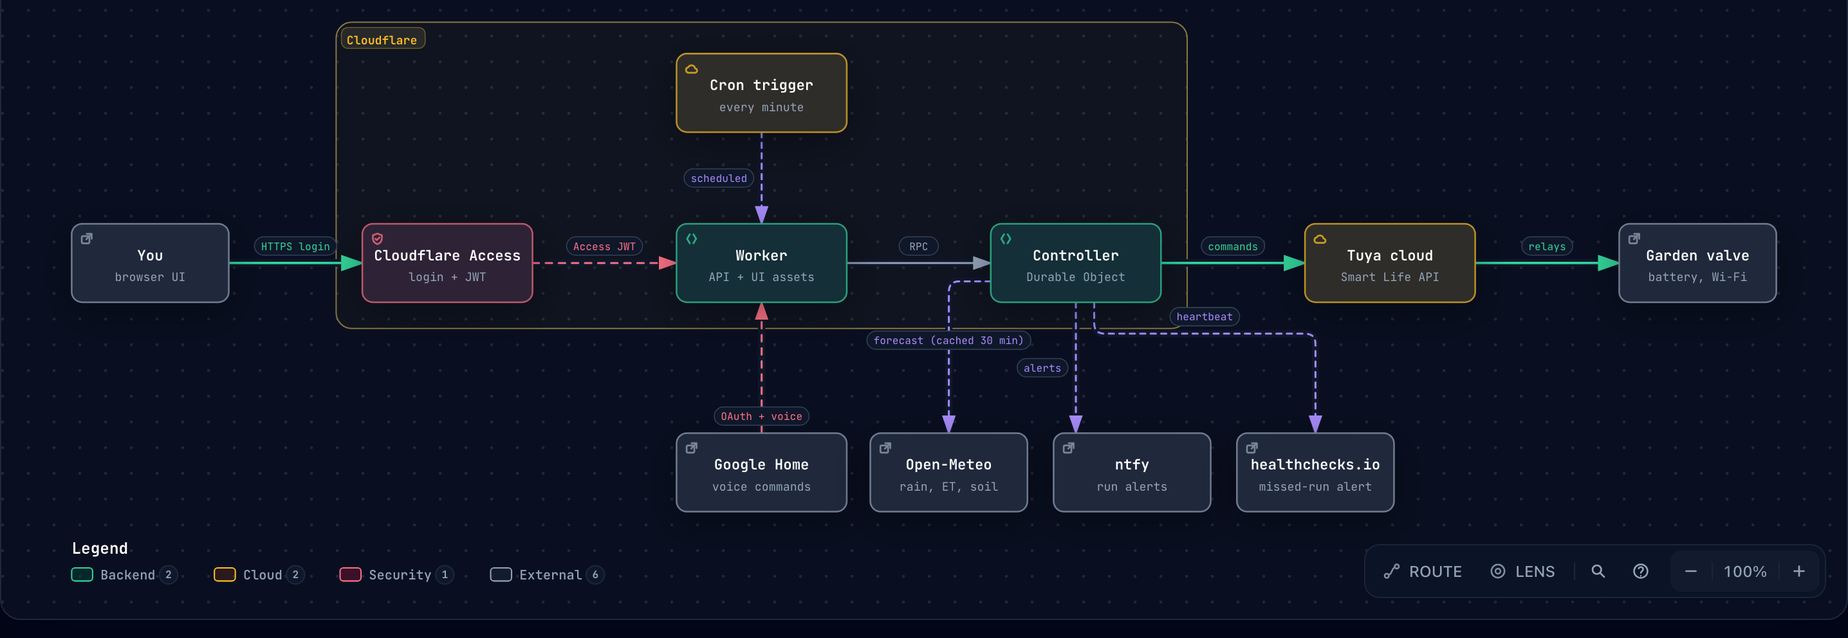
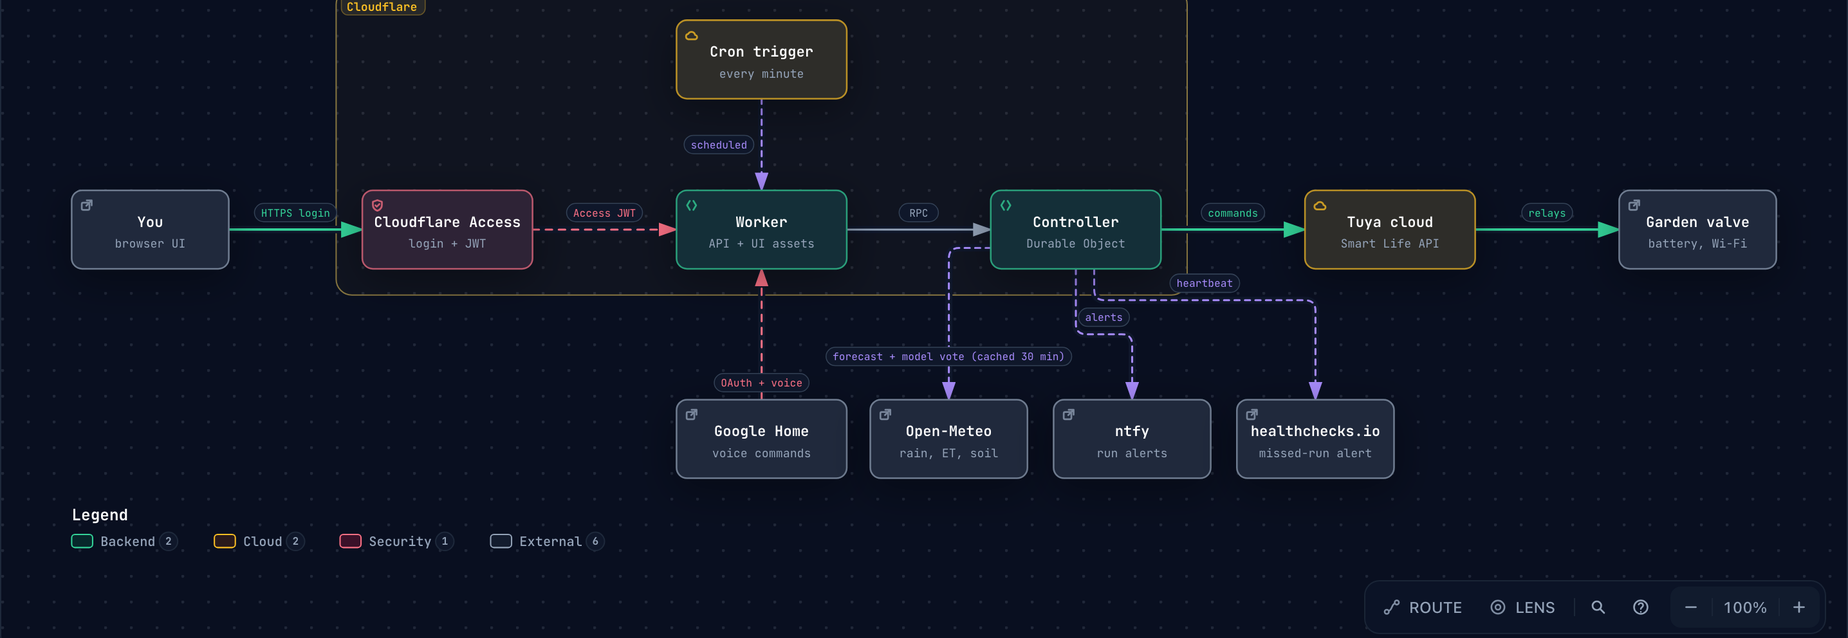
docs(arch): 📝 weather vote, rain catch-up
Add the catch-up and the model vote to the diagram, with a card on weather
and rain skips.

diff --git a/docs/architecture/architecture.html b/docs/architecture/architecture.html
@@ -5197,7 +5197,7 @@ OTHER DEALINGS IN THE FONT SOFTWARE.
       </div>
     </div>
 
-    <script id="archify-source-evidence-data" type="application/json">{"schemaVersion":1,"verified":true,"repository":{"url":"https://github.com/srizzling/valve-controller","revision":"7c382e5fe64b183cac99c9dbc0300820313c4a3b","shortRevision":"7c382e5","label":"srizzling/valve-controller","href":"https://github.com/srizzling/valve-controller/tree/7c382e5fe64b183cac99c9dbc0300820313c4a3b"},"referenceCount":21,"nodes":{"you":[{"path":"worker/public/app.js","line":437,"endLine":447,"label":"UI calls /api","href":"https://github.com/srizzling/valve-controller/blob/7c382e5fe64b183cac99c9dbc0300820313c4a3b/worker/public/app.js#L437-L447"}],"access":[{"path":"worker/src/access.ts","line":48,"endLine":59,"label":"checkAccess","href":"https://github.com/srizzling/valve-controller/blob/7c382e5fe64b183cac99c9dbc0300820313c4a3b/worker/src/access.ts#L48-L59"}],"worker":[{"path":"worker/src/index.ts","line":22,"endLine":30,"label":"CSRF check, Access gate, routes","href":"https://github.com/srizzling/valve-controller/blob/7c382e5fe64b183cac99c9dbc0300820313c4a3b/worker/src/index.ts#L22-L30"},{"path":"worker/src/index.ts","line":106,"endLine":108,"label":"Security headers, Google routes","href":"https://github.com/srizzling/valve-controller/blob/7c382e5fe64b183cac99c9dbc0300820313c4a3b/worker/src/index.ts#L106-L108"},{"path":"worker/src/security.ts","line":13,"endLine":23,"label":"securityHeaders","href":"https://github.com/srizzling/valve-controller/blob/7c382e5fe64b183cac99c9dbc0300820313c4a3b/worker/src/security.ts#L13-L23"}],"controller":[{"path":"worker/src/controller.ts","line":159,"endLine":204,"label":"alarm: cycle/soak","href":"https://github.com/srizzling/valve-controller/blob/7c382e5fe64b183cac99c9dbc0300820313c4a3b/worker/src/controller.ts#L159-L204"},{"path":"worker/src/controller.ts","line":286,"endLine":332,"label":"supervise: one-hour limits","href":"https://github.com/srizzling/valve-controller/blob/7c382e5fe64b183cac99c9dbc0300820313c4a3b/worker/src/controller.ts#L286-L332"},{"path":"worker/src/smart.ts","line":52,"endLine":52,"label":"scale cycles by weather","href":"https://github.com/srizzling/valve-controller/blob/7c382e5fe64b183cac99c9dbc0300820313c4a3b/worker/src/smart.ts#L52"}],"tuya":[{"path":"worker/src/tuya.ts","line":176,"endLine":183,"label":"signed client","href":"https://github.com/srizzling/valve-controller/blob/7c382e5fe64b183cac99c9dbc0300820313c4a3b/worker/src/tuya.ts#L176-L183"},{"path":"worker/src/tuya.ts","line":217,"endLine":238,"label":"token refresh","href":"https://github.com/srizzling/valve-controller/blob/7c382e5fe64b183cac99c9dbc0300820313c4a3b/worker/src/tuya.ts#L217-L238"},{"path":"worker/src/tuya.ts","line":65,"endLine":81,"label":"QR re-login","href":"https://github.com/srizzling/valve-controller/blob/7c382e5fe64b183cac99c9dbc0300820313c4a3b/worker/src/tuya.ts#L65-L81"}],"valve":[{"path":"worker/src/valve.ts","line":206,"endLine":212,"label":"open + countdown","href":"https://github.com/srizzling/valve-controller/blob/7c382e5fe64b183cac99c9dbc0300820313c4a3b/worker/src/valve.ts#L206-L212"},{"path":"worker/src/valve.ts","line":219,"endLine":227,"label":"confirm state","href":"https://github.com/srizzling/valve-controller/blob/7c382e5fe64b183cac99c9dbc0300820313c4a3b/worker/src/valve.ts#L219-L227"}],"cron":[{"path":"worker/wrangler.jsonc","line":14,"endLine":14,"label":"* * * * *","href":"https://github.com/srizzling/valve-controller/blob/7c382e5fe64b183cac99c9dbc0300820313c4a3b/worker/wrangler.jsonc#L14"},{"path":"worker/src/index.ts","line":114,"endLine":116,"label":"scheduled -\u003e tick","href":"https://github.com/srizzling/valve-controller/blob/7c382e5fe64b183cac99c9dbc0300820313c4a3b/worker/src/index.ts#L114-L116"}],"google":[{"path":"worker/src/google.ts","line":108,"endLine":108,"label":"fulfillment","href":"https://github.com/srizzling/valve-controller/blob/7c382e5fe64b183cac99c9dbc0300820313c4a3b/worker/src/google.ts#L108"}],"weather":[{"path":"worker/src/rain.ts","line":15,"endLine":15,"label":"forecast API","href":"https://github.com/srizzling/valve-controller/blob/7c382e5fe64b183cac99c9dbc0300820313c4a3b/worker/src/rain.ts#L15"},{"path":"worker/src/weather.ts","line":164,"endLine":164,"label":"fetch forecast, ET and soil moisture","href":"https://github.com/srizzling/valve-controller/blob/7c382e5fe64b183cac99c9dbc0300820313c4a3b/worker/src/weather.ts#L164"},{"path":"worker/src/weather.ts","line":122,"endLine":123,"label":"fresh 30 min, stale up to 6 h","href":"https://github.com/srizzling/valve-controller/blob/7c382e5fe64b183cac99c9dbc0300820313c4a3b/worker/src/weather.ts#L122-L123"}],"ntfy":[{"path":"worker/src/ntfy.ts","line":11,"endLine":22,"label":"notify","href":"https://github.com/srizzling/valve-controller/blob/7c382e5fe64b183cac99c9dbc0300820313c4a3b/worker/src/ntfy.ts#L11-L22"}],"hc":[{"path":"worker/src/heartbeat.ts","line":15,"endLine":23,"label":"ping","href":"https://github.com/srizzling/valve-controller/blob/7c382e5fe64b183cac99c9dbc0300820313c4a3b/worker/src/heartbeat.ts#L15-L23"}]}}</script>
+    <script id="archify-source-evidence-data" type="application/json">{"schemaVersion":1,"verified":true,"repository":{"url":"https://github.com/srizzling/valve-controller","revision":"40138c38bd7bea8cd44724d7ae238985d8a0da1c","shortRevision":"40138c3","label":"srizzling/valve-controller","href":"https://github.com/srizzling/valve-controller/tree/40138c38bd7bea8cd44724d7ae238985d8a0da1c"},"referenceCount":21,"nodes":{"you":[{"path":"worker/public/app.js","line":437,"endLine":447,"label":"UI calls /api","href":"https://github.com/srizzling/valve-controller/blob/40138c38bd7bea8cd44724d7ae238985d8a0da1c/worker/public/app.js#L437-L447"}],"access":[{"path":"worker/src/access.ts","line":48,"endLine":59,"label":"checkAccess","href":"https://github.com/srizzling/valve-controller/blob/40138c38bd7bea8cd44724d7ae238985d8a0da1c/worker/src/access.ts#L48-L59"}],"worker":[{"path":"worker/src/index.ts","line":22,"endLine":30,"label":"CSRF check, Access gate, routes","href":"https://github.com/srizzling/valve-controller/blob/40138c38bd7bea8cd44724d7ae238985d8a0da1c/worker/src/index.ts#L22-L30"},{"path":"worker/src/index.ts","line":106,"endLine":108,"label":"Security headers, Google routes","href":"https://github.com/srizzling/valve-controller/blob/40138c38bd7bea8cd44724d7ae238985d8a0da1c/worker/src/index.ts#L106-L108"},{"path":"worker/src/security.ts","line":13,"endLine":23,"label":"securityHeaders","href":"https://github.com/srizzling/valve-controller/blob/40138c38bd7bea8cd44724d7ae238985d8a0da1c/worker/src/security.ts#L13-L23"}],"controller":[{"path":"worker/src/controller.ts","line":177,"endLine":221,"label":"alarm: cycle/soak","href":"https://github.com/srizzling/valve-controller/blob/40138c38bd7bea8cd44724d7ae238985d8a0da1c/worker/src/controller.ts#L177-L221"},{"path":"worker/src/controller.ts","line":318,"endLine":359,"label":"supervise: one-hour limits","href":"https://github.com/srizzling/valve-controller/blob/40138c38bd7bea8cd44724d7ae238985d8a0da1c/worker/src/controller.ts#L318-L359"},{"path":"worker/src/controller.ts","line":166,"endLine":175,"label":"catch-up after a rain skip","href":"https://github.com/srizzling/valve-controller/blob/40138c38bd7bea8cd44724d7ae238985d8a0da1c/worker/src/controller.ts#L166-L175"}],"tuya":[{"path":"worker/src/tuya.ts","line":176,"endLine":183,"label":"signed client","href":"https://github.com/srizzling/valve-controller/blob/40138c38bd7bea8cd44724d7ae238985d8a0da1c/worker/src/tuya.ts#L176-L183"},{"path":"worker/src/tuya.ts","line":217,"endLine":238,"label":"token refresh","href":"https://github.com/srizzling/valve-controller/blob/40138c38bd7bea8cd44724d7ae238985d8a0da1c/worker/src/tuya.ts#L217-L238"},{"path":"worker/src/tuya.ts","line":65,"endLine":81,"label":"QR re-login","href":"https://github.com/srizzling/valve-controller/blob/40138c38bd7bea8cd44724d7ae238985d8a0da1c/worker/src/tuya.ts#L65-L81"}],"valve":[{"path":"worker/src/valve.ts","line":206,"endLine":212,"label":"open + countdown","href":"https://github.com/srizzling/valve-controller/blob/40138c38bd7bea8cd44724d7ae238985d8a0da1c/worker/src/valve.ts#L206-L212"},{"path":"worker/src/valve.ts","line":219,"endLine":227,"label":"confirm state","href":"https://github.com/srizzling/valve-controller/blob/40138c38bd7bea8cd44724d7ae238985d8a0da1c/worker/src/valve.ts#L219-L227"}],"cron":[{"path":"worker/wrangler.jsonc","line":14,"endLine":14,"label":"* * * * *","href":"https://github.com/srizzling/valve-controller/blob/40138c38bd7bea8cd44724d7ae238985d8a0da1c/worker/wrangler.jsonc#L14"},{"path":"worker/src/index.ts","line":114,"endLine":116,"label":"scheduled -\u003e tick","href":"https://github.com/srizzling/valve-controller/blob/40138c38bd7bea8cd44724d7ae238985d8a0da1c/worker/src/index.ts#L114-L116"}],"google":[{"path":"worker/src/google.ts","line":108,"endLine":108,"label":"fulfillment","href":"https://github.com/srizzling/valve-controller/blob/40138c38bd7bea8cd44724d7ae238985d8a0da1c/worker/src/google.ts#L108"}],"weather":[{"path":"worker/src/weather.ts","line":164,"endLine":164,"label":"fetch forecast, ET and soil moisture","href":"https://github.com/srizzling/valve-controller/blob/40138c38bd7bea8cd44724d7ae238985d8a0da1c/worker/src/weather.ts#L164"},{"path":"worker/src/weather.ts","line":153,"endLine":154,"label":"fresh 30 min, stale up to 6 h","href":"https://github.com/srizzling/valve-controller/blob/40138c38bd7bea8cd44724d7ae238985d8a0da1c/worker/src/weather.ts#L153-L154"},{"path":"worker/src/weather.ts","line":27,"endLine":27,"label":"seven models vote on conditions now","href":"https://github.com/srizzling/valve-controller/blob/40138c38bd7bea8cd44724d7ae238985d8a0da1c/worker/src/weather.ts#L27"}],"ntfy":[{"path":"worker/src/ntfy.ts","line":11,"endLine":22,"label":"notify","href":"https://github.com/srizzling/valve-controller/blob/40138c38bd7bea8cd44724d7ae238985d8a0da1c/worker/src/ntfy.ts#L11-L22"}],"hc":[{"path":"worker/src/heartbeat.ts","line":15,"endLine":23,"label":"ping","href":"https://github.com/srizzling/valve-controller/blob/40138c38bd7bea8cd44724d7ae238985d8a0da1c/worker/src/heartbeat.ts#L15-L23"}]}}</script>
     <script id="archify-i18n-data" type="application/json">{"locale":"en","messages":{"viewer.kind.frontend":"Frontend","viewer.kind.backend":"Backend","viewer.kind.database":"Database","viewer.kind.cloud":"Cloud","viewer.kind.security":"Security","viewer.kind.messagebus":"Message bus","viewer.kind.external":"External","viewer.kind.neutral":"Neutral","viewer.kind.node":"Node","viewer.kind.start":"Start","viewer.kind.active":"Active","viewer.kind.waiting":"Waiting","viewer.kind.decision":"Decision","viewer.kind.success":"Success","viewer.kind.failure":"Failure","viewer.toolbar.actions":"Diagram actions","viewer.theme.toggle.title":"Toggle theme (T)","viewer.theme.toggle":"Toggle color theme","viewer.theme.dark":"Dark","viewer.theme.light":"Light","viewer.preset.choose.title":"Choose visual style (S cycles)","viewer.preset.choose":"Choose visual style","viewer.preset.style":"Style","viewer.preset.menu":"Visual style","viewer.preset.identity":"Visual identity","viewer.preset.cycles":"to cycle","viewer.preset.classic":"Classic","viewer.preset.classic.short":"Classic","viewer.preset.classic.hint":"Stable technical default","viewer.preset.flow":"Signal Flow","viewer.preset.flow.short":"Flow","viewer.preset.flow.hint":"Motion-forward presentation","viewer.preset.blueprint":"Blueprint","viewer.preset.blueprint.hint":"Engineering review","viewer.preset.editorial":"Editorial","viewer.preset.editorial.hint":"Publication and launch notes","viewer.preset.badge.signalFlow":"SIGNAL FLOW","viewer.preset.badge.blueprint":"BLUEPRINT / REV 01","viewer.preset.badge.editorial":"EDITORIAL / FIELD NOTE","viewer.preset.badge.editorialPlate":"ARCHIFY / PLATE 04","viewer.preset.current":"Visual style: {style}. Choose visual style","viewer.motion.live":"Live","viewer.motion.still":"Still","viewer.motion.pause":"Pause motion","viewer.motion.resume":"Resume motion","viewer.motion.reduced":"Motion paused by reduced-motion preference","viewer.motion.hidden":"Motion paused while this page is hidden","viewer.motion.yielding":"Pause motion; currently yielding to {owner}","viewer.motion.yielding.title":"Live preview enabled · yielding to {owner}","viewer.owner.route":"Route Probe","viewer.owner.lens":"Semantic Lens","viewer.owner.relationship":"Relationship Preview","viewer.owner.intent":"Intent Trace","viewer.owner.focus":"semantic focus","viewer.owner.legend":"legend preview","viewer.owner.reader":"reader interaction","viewer.present.enter":"Enter presentation stage","viewer.present.enter.title":"Presentation stage (F)","viewer.present.exit":"Exit presentation stage","viewer.present.exit.title":"Exit presentation stage (F or Escape)","viewer.present.present":"Present","viewer.present.exit.label":"Exit","viewer.export.button":"Export","viewer.export.button.title":"Export diagram (E)","viewer.export.diagram":"Export diagram","viewer.export.menu":"Export","viewer.export.subtitle":"Portable, clean outputs","viewer.export.share":"Share","viewer.export.shareCard":"Share Card","viewer.export.routeShareCard":"Route Share Card","viewer.export.reachShareCard":"Reach Share Card","viewer.export.copyDiagram":"Copy diagram","viewer.export.clipboardPng":"PNG to clipboard","viewer.export.raster":"Raster images","viewer.export.image":"Image","viewer.export.lossless":"Lossless image","viewer.export.compact":"Compact image","viewer.export.modern":"Modern image","viewer.export.vectorMotion":"Vector and motion","viewer.export.vectorMotion.heading":"Vector \u0026 motion","viewer.export.editable":"Editable vector","viewer.export.svg.auto":"SVG · Auto","viewer.export.svg.auto.hint":"Matches host theme","viewer.export.svg.light":"SVG · Light","viewer.export.svg.light.hint":"Always light","viewer.export.svg.dark":"SVG · Dark","viewer.export.svg.dark.hint":"Always dark","viewer.export.motion6s":"6s motion","viewer.export.unsupported":"Not supported by this browser","viewer.export.clipboardUnsupported":"Clipboard image write not supported by this browser","viewer.export.clipboardUnsupported.short":"Clipboard image write not supported in this browser.","viewer.export.motionUnavailable":"Motion capture unavailable in this browser","viewer.export.webmUnavailable":"WebM unavailable in this browser","viewer.export.failed":"Export failed: {message}","viewer.export.unknownVariant":"Unknown Share Card variant: {variant}","viewer.export.routeRequired":"Trace a route before exporting a Route Share Card","viewer.export.reachRequired":"Trace authored reach before exporting a Reach Share Card","viewer.export.unknown":"unknown","viewer.export.routeFailed":"Route Share Card export failed: {message}","viewer.export.reachFailed":"Reach Share Card export failed: {message}","viewer.export.copyFailed":"Copy failed: {message}","viewer.export.copiedPng":"Copied PNG to clipboard","viewer.export.downloadedRoute":"Downloaded Route Share Card","viewer.export.downloadedReach":"Downloaded Reach Share Card","viewer.export.downloadedWebm":"Downloaded WebM","viewer.export.recording":"Recording 6 seconds of motion…","viewer.export.card.routeSummary.one":"Path: {source} → {target} · {count} step","viewer.export.card.routeSummary.other":"Path: {source} → {target} · {count} steps","viewer.export.card.reachSummary":"Authored {direction} from {origin} · {nodes} · {links} · max {hops}","viewer.export.card.node.one":"{count} node","viewer.export.card.node.other":"{count} nodes","viewer.export.card.link.one":"{count} link","viewer.export.card.link.other":"{count} links","viewer.export.card.hop.one":"{count} hop","viewer.export.card.hop.other":"{count} hops","viewer.export.card.routeBadge":"ARCHIFY · ROUTE · {hops}","viewer.export.card.reachBadge":"ARCHIFY · {direction} REACH","viewer.export.direction.upstream":"Upstream","viewer.export.direction.downstream":"Downstream","viewer.export.error.canvasUnavailable":"Canvas unavailable for {label}","viewer.export.error.contextUnavailable":"2D canvas context unavailable for {label}","viewer.export.error.toBlobUnavailable":"canvas.toBlob unavailable for {label}","viewer.export.error.toBlobNull":"canvas.toBlob returned no data for {label}","viewer.export.error.variantsCombined":"Share Card variants cannot be combined","viewer.export.error.viewerState":"Share Card export could not remove temporary viewer state","viewer.export.error.routeState":"Route Card export could not preserve the resolved route safely","viewer.export.error.reachState":"Reach Card export could not preserve authored reach safely","viewer.export.error.webmRequirements":"WebM motion export requires a trace animation and browser MediaRecorder support","viewer.export.error.mediaRecorder":"MediaRecorder failed","viewer.export.error.emptyWebm":"MediaRecorder produced an empty WebM","viewer.export.error.webmBackground":"SVG background could not be loaded for WebM export","viewer.guide.title":"Explore this system","viewer.focus.selectedNodes":"{count} selected nodes","viewer.guide.eyebrow":"Diagram guide","viewer.guide.close":"Close diagram guide","viewer.guide.inspecting":"Inspecting compiled semantics","viewer.guide.actions":"Diagram exploration actions","viewer.guide.find":"Find any node","viewer.guide.find.hint":"Search labels, responsibilities, kinds, and stable IDs.","viewer.guide.route":"Trace a route","viewer.guide.route.aria":"Trace a directed route","viewer.guide.route.hint":"Ask how two semantic nodes connect in authored direction.","viewer.guide.map":"See the whole system","viewer.guide.map.hint":"Open Semantic Radar with a live viewport and stable nodes.","viewer.guide.lens":"Compare semantic kinds","viewer.guide.lens.hint":"Count roles, reveal their traffic, and compare direct authored links.","viewer.guide.present":"Enter Presentation Stage","viewer.guide.present.hint":"Give the live diagram the viewport without changing export.","viewer.guide.shortcuts":"Additional keyboard shortcuts","viewer.guide.shortcut.export":"Export","viewer.guide.shortcut.theme":"Theme","viewer.guide.shortcut.style":"Style","viewer.guide.shortcut.reset":"Reset","viewer.guide.shortcut.zoomIn":"Zoom in","viewer.guide.shortcut.zoomOut":"Zoom out","viewer.guide.shortcut.close":"Close","viewer.guide.credit":"Find Archify useful? A star on GitHub helps","viewer.guide.star":"Star","viewer.guide.facts":"{nodes} · {relationships}","viewer.guide.fact.node.one":"{count} semantic node","viewer.guide.fact.node.other":"{count} semantic nodes","viewer.guide.fact.relationship.one":"{count} relationship","viewer.guide.fact.relationship.other":"{count} relationships","viewer.guide.open":"Open diagram guide","viewer.finder.title":"Find a node","viewer.finder.close":"Close node finder","viewer.finder.placeholder":"Search labels or IDs","viewer.finder.search":"Search diagram nodes","viewer.finder.results":"Diagram nodes","viewer.finder.empty":"No matching nodes","viewer.finder.result.focus":"Focus {label}","viewer.finder.result.routeStart":"Choose {label} as route start","viewer.finder.result.routeTarget":"Choose {label} as route destination, {links}","viewer.finder.status.empty":"No matching nodes","viewer.finder.status.count.one":"{count} matching node","viewer.finder.status.count.other":"{count} matching nodes","viewer.finder.noun.nodes":"nodes","viewer.finder.link.one":"{count} link","viewer.finder.link.other":"{count} links","viewer.finder.result.focus.one":"Focus {label}, {count} related connection","viewer.finder.result.focus.other":"Focus {label}, {count} related connections","viewer.finder.status.filtered":"{visible} of {available} {noun}","viewer.finder.status.all":"{available} {noun}","viewer.passport.eyebrow":"Semantic passport","viewer.passport.metadata":"Node metadata","viewer.passport.evidence":"Verified source evidence","viewer.passport.verified":"Verified source","viewer.passport.verificationScope":"Verified against local Git at the pinned revision. Remote access has not been checked.","viewer.passport.reach":"Authored reach","viewer.passport.reach.trace":"Trace authored reachability","viewer.passport.upstream":"Upstream","viewer.passport.downstream":"Downstream","viewer.passport.upstream.trace":"Trace upstream authored reachability","viewer.passport.downstream.trace":"Trace downstream authored reachability","viewer.passport.close":"Close semantic passport","viewer.passport.move":"Move semantic passport. Drag, use arrow keys, or press Home to reset.","viewer.passport.copy":"Copy link","viewer.passport.copy.focus":"Copy link to focused node","viewer.passport.relations":"Relations","viewer.passport.relations.show":"Show connected relationships","viewer.passport.relations.hide":"Hide connected relationships","viewer.passport.relations.list":"Connected relationships","viewer.passport.copyRelation":"Copy relation","viewer.passport.copyNode":"Copy node","viewer.passport.copyPinned":"Copy link to pinned relationship","viewer.passport.copySource":"Copy link to source node","viewer.passport.copy.focused.success":"Focused node link copied","viewer.passport.copy.pinned.success":"Pinned relationship link copied","viewer.passport.copy.focused.failed":"Could not copy focused node link","viewer.passport.copy.pinned.failed":"Could not copy pinned relationship link","viewer.passport.relationship.none":"No connected relationships","viewer.passport.relationship.count.one":"{count} relation","viewer.passport.relationship.count.other":"{count} relations","viewer.passport.relationship.show.one":"Show {count} connected relationship","viewer.passport.relationship.show.other":"Show {count} connected relationships","viewer.passport.relationship.summary":"{out} outgoing · {in} incoming{loops}","viewer.passport.relationship.loops":" · {count} loop","viewer.passport.relationship.explorer":"Direct relationship explorer","viewer.passport.relationship.help":"Use arrow keys to explore relationships. Press Enter or Space to pin details; Escape clears.","viewer.passport.relationship.loopsBack":"loops back","viewer.passport.relationship.connectsTo":"connects to","viewer.passport.relationship.connectsFrom":"connects from","viewer.passport.relationship.pinned":"Pinned relationship · {from} → {to} · {label}","viewer.passport.relationship.inspect":"Inspect relationship {index} of {total}: {from} to {to}, {label}. Press Enter for details.","viewer.passport.relationship.group.out":"Outgoing","viewer.passport.relationship.group.in":"Incoming","viewer.passport.relationship.group.loop":"Self loops","viewer.passport.relationship.row":"{group}: {relationship}, {neighbor}","viewer.passport.relationship.direction.out":"OUT →","viewer.passport.relationship.direction.in":"← IN","viewer.passport.relationship.direction.loop":"LOOP","viewer.passport.sourceCount.one":"{count} verified source reference","viewer.passport.sourceCount.other":"{count} verified source references","viewer.passport.repository.open":"Open verified repository revision {revision}","viewer.passport.source.open":"Open verified source {path} at revision {revision}","viewer.passport.source.openLink":"Open ↗","viewer.passport.reach.upstream.one":"Trace {count} upstream authored node","viewer.passport.reach.upstream.other":"Trace {count} upstream authored nodes","viewer.passport.reach.downstream.one":"Trace {count} downstream authored node","viewer.passport.reach.downstream.other":"Trace {count} downstream authored nodes","viewer.passport.reach.noUpstream":"No upstream authored nodes","viewer.passport.reach.noDownstream":"No downstream authored nodes","viewer.passport.reach.status":"{direction} · {nodes} nodes · {links} links · max {hops} hops","viewer.route.eyebrow":"Path","viewer.route.start":"Click where the path starts","viewer.route.start.find":"Find start","viewer.route.start.find.aria":"Find a route start","viewer.route.copy":"Copy link","viewer.route.copy.aria":"Copy link to traced route","viewer.route.clear":"Clear","viewer.route.clear.aria":"Clear route probe","viewer.route.traced":"Path","viewer.route.pickTwo":"Click two nodes on the diagram","viewer.route.pickOne":"Click a node on the diagram","viewer.route.controls":"Route journey controls","viewer.route.previous":"Previous route position","viewer.route.play":"Play route journey","viewer.route.pause":"Pause route journey","viewer.route.replay":"Replay route journey","viewer.route.next":"Next route position","viewer.route.journey":"Journey","viewer.route.pause.label":"Pause","viewer.route.replay.label":"Replay","viewer.route.overview":"Overview","viewer.route.overview.aria":"Show complete route overview","viewer.route.instructions":"Click a start, then an end. Paths follow the arrows.","viewer.route.destination":"Where does the path from {label} end?","viewer.route.destination.find":"Find target","viewer.route.destination.find.aria":"Find a reachable route destination","viewer.route.differentDestination":"Choose a different destination","viewer.route.distinct":"Pick two different nodes.","viewer.route.unreachable":"Cannot reach {label} from here","viewer.route.unreachable.detail":"{target} cannot be reached from {source} along the arrows. Pick a highlighted node.","viewer.route.start.instructions":"Next, pick the end. Only nodes you can reach will light up.","viewer.route.copy.success":"Traced route link copied","viewer.route.copy.failed":"Could not copy traced route link","viewer.route.position":"Route position {index} of {total}: {label}","viewer.route.step":"Step {index} of {total} · {phase} · {label}","viewer.route.motionRequired":"Automatic journey requires Live motion","viewer.route.trigger.clear":"Clear traced route","viewer.route.overview.status":"{nodes} · {hops} · shortest path","viewer.route.overview.node.one":"{count} node","viewer.route.overview.node.other":"{count} nodes","viewer.route.overview.hop.one":"{count} step","viewer.route.overview.hop.other":"{count} steps","viewer.route.phase.playing":"Playing","viewer.route.phase.complete":"Complete","viewer.route.phase.inspecting":"Inspecting","viewer.route.destination.count.one":"{count} reachable node is highlighted. Click it.","viewer.route.destination.count.other":"{count} reachable nodes are highlighted. Click one.","viewer.route.noOutgoing":"No arrows lead out of this node. Clear it and pick another start.","viewer.route.result.title":"{source} to {target}","viewer.route.finder.source.title":"Choose route start","viewer.route.finder.source.placeholder":"Search route sources","viewer.route.finder.source.empty":"No matching route sources","viewer.route.finder.source.results":"Nodes that can start a route","viewer.route.finder.source.noun":"route sources","viewer.route.finder.source.badge":"start","viewer.route.finder.target.title":"Destination from {label}","viewer.route.finder.target.placeholder":"Search reachable destinations","viewer.route.finder.target.empty":"No matching reachable destinations","viewer.route.finder.target.results":"Reachable route destinations","viewer.route.finder.target.noun":"reachable destinations","viewer.route.hop.one":"{count} hop","viewer.route.hop.other":"{count} hops","viewer.lens.eyebrow":"Semantic lens","viewer.lens.title":"Compare system roles","viewer.lens.close":"Close semantic lens","viewer.lens.instruction":"Choose up to two semantic kinds. One reveals its real traffic; two compare only direct authored relationships.","viewer.lens.kinds":"Semantic kinds","viewer.lens.choose":"Choose a kind to inspect its nodes and touching relationships.","viewer.lens.copy":"Copy link to semantic lens","viewer.lens.clear":"Clear semantic lens","viewer.lens.open":"Open semantic lens","viewer.lens.openActive":"Open active semantic lens","viewer.lens.legend":"Semantic legend","viewer.lens.legend.inspect.one":"Inspect {label}, {count} node","viewer.lens.legend.inspect.other":"Inspect {label}, {count} nodes","viewer.lens.kind.count.one":"{label}, {count} node","viewer.lens.kind.count.other":"{label}, {count} nodes","viewer.lens.compare.one":"{first} → {second}: {forward} · {second} → {first}: {reverse} · {count} direct relationship","viewer.lens.compare.other":"{first} → {second}: {forward} · {second} → {first}: {reverse} · {count} direct relationships","viewer.lens.single":"{nodes} · {relationships} · connected peers remain visible","viewer.lens.node.one":"{count} {label} node","viewer.lens.node.other":"{count} {label} nodes","viewer.lens.relationship.one":"{count} touching relationship","viewer.lens.relationship.other":"{count} touching relationships","viewer.radar.title":"Semantic radar","viewer.radar.building":"Building overview","viewer.radar.openFull":"Open full semantic radar","viewer.radar.open":"Open radar","viewer.radar.close":"Close semantic radar","viewer.radar.surface":"Diagram overview. Click a node to focus it, or use arrow keys to pan.","viewer.radar.click":"Click node","viewer.radar.drag":"Drag to pan","viewer.radar.space":"Semantic radar needs more MAP space.","viewer.radar.nodes":"Semantic diagram radar nodes","viewer.radar.focus":"Focus {label} from Semantic Radar","viewer.radar.status":"{count} nodes · {viewport}","viewer.radar.fullMap":"{count} nodes · full map","viewer.radar.compacted":"Radar compacted to avoid covering the Semantic Passport or MAP controls.","viewer.radar.cancelWaiting":"Cancel semantic radar waiting for more MAP space","viewer.radar.needsSpace":"Semantic radar needs more visible MAP space","viewer.radar.viewport.full":"full map","viewer.radar.viewport.width":"{percent}% width","viewer.radar.viewport.scale":"{percent}% viewport","viewer.nav.controls":"Diagram view controls","viewer.nav.route":"Trace a directed route","viewer.nav.route.title":"Trace route (R)","viewer.nav.route.short":"ROUTE","viewer.nav.radar":"Open semantic radar","viewer.nav.radar.title":"Semantic radar (M)","viewer.nav.radar.short":"MAP","viewer.nav.lens":"Open semantic lens","viewer.nav.lens.title":"Semantic lens (L)","viewer.nav.lens.short":"LENS","viewer.nav.find":"Find a node","viewer.nav.find.title":"Find a node (/)","viewer.outline.title":"Node index","viewer.rail.show":"Notes \u0026 index","viewer.rail.controls":"Side panel","viewer.rail.collapse":"Collapse side panel","viewer.rail.bottom":"Move panel below the diagram","viewer.rail.right":"Move panel beside the diagram","viewer.nav.guide":"Open diagram guide","viewer.nav.guide.title":"Diagram guide (?)","viewer.nav.zoomOut":"Zoom out","viewer.nav.zoomOut.title":"Zoom out (-)","viewer.nav.reset":"Reset diagram view","viewer.nav.reset.title":"Reset view (0)","viewer.nav.read":"READ","viewer.nav.zoomIn":"Zoom in","viewer.nav.zoomIn.title":"Zoom in (+)","viewer.nav.camera":"{hint}. Reset diagram view","viewer.nav.camera.title":"{semantic}{hint} · reset view (0)","viewer.nav.camera.semantic":"Semantic camera active · ","viewer.nav.level.map":"MAP","viewer.nav.level.read":"READ","viewer.nav.level.full":"FULL","viewer.nav.level.auto":"AUTO","viewer.nav.detail.map":"Zoom in to reveal relationship labels and node context","viewer.nav.detail.read":"Zoom in again to reveal tags and annotations","viewer.nav.detail.full":"Full diagram detail","viewer.intent.summary":"{label}. {out} outgoing, {in} incoming{loops}. {total} connections. Press Enter for details.","viewer.intent.loops":", {count} self loop","viewer.common.copied":"Copied","viewer.common.copyFailed":"Copy failed","viewer.common.copyLink":"Copy link","viewer.common.clear":"Clear","viewer.common.close":"Close"}}</script>
     <!-- Main Diagram -->
     <div class="diagram-container" data-detail-level="read"
@@ -5282,11 +5282,11 @@ OTHER DEALINGS IN THE FONT SOFTWARE.
         </g>
         <g data-graph-role="automatic-crossover" style="--step:7">
           <path data-graph-role="automatic-crossover-underlay" d="M 742 214 L 718 214 Q 710 214 710 222 L 710 330" fill="none" stroke="var(--mask)" stroke-width="5.5" stroke-linecap="round" stroke-linejoin="round" pointer-events="none"/>
-          <path data-edge-from="controller" data-edge-to="weather" data-edge-label="forecast (cached 30 min)" data-edge-key="7" data-edge-id="controller-to-weather" data-composition-points="742,214;710,214;710,330" data-composition-crossover="halo" data-composition-independent="true" d="M 742 214 L 718 214 Q 710 214 710 222 L 710 330" class="a-dashed" data-animate="edge" style="--step:7" stroke-width="1.5" marker-end="url(#arrowhead-dashed)"/>
+          <path data-edge-from="controller" data-edge-to="weather" data-edge-label="forecast + model vote (cached 30 min)" data-edge-key="7" data-edge-id="controller-to-weather" data-composition-points="742,214;710,214;710,330" data-composition-crossover="halo" data-composition-independent="true" d="M 742 214 L 718 214 Q 710 214 710 222 L 710 330" class="a-dashed" data-animate="edge" style="--step:7" stroke-width="1.5" marker-end="url(#arrowhead-dashed)"/>
         </g>
         <g data-graph-role="automatic-crossover" style="--step:8">
-          <path data-graph-role="automatic-crossover-underlay" d="M 807 230 L 807 330" fill="none" stroke="var(--mask)" stroke-width="5.5" stroke-linecap="round" stroke-linejoin="round" pointer-events="none"/>
-          <path data-edge-from="controller" data-edge-to="ntfy" data-edge-label="alerts" data-edge-key="8" data-edge-id="controller-to-ntfy" data-composition-points="807,230;807,330" data-composition-crossover="halo" data-composition-independent="true" d="M 807 230 L 807 330" class="a-dashed" data-animate="edge" style="--step:8" stroke-width="1.5" marker-end="url(#arrowhead-dashed)"/>
+          <path data-graph-role="automatic-crossover-underlay" d="M 807 230 L 807 272 Q 807 280 815 280 L 842 280 Q 850 280 850 288 L 850 330" fill="none" stroke="var(--mask)" stroke-width="5.5" stroke-linecap="round" stroke-linejoin="round" pointer-events="none"/>
+          <path data-edge-from="controller" data-edge-to="ntfy" data-edge-label="alerts" data-edge-key="8" data-edge-id="controller-to-ntfy" data-composition-points="807,230;807,280;850,280;850,330" data-composition-crossover="halo" data-composition-independent="true" d="M 807 230 L 807 272 Q 807 280 815 280 L 842 280 Q 850 280 850 288 L 850 330" class="a-dashed" data-animate="edge" style="--step:8" stroke-width="1.5" marker-end="url(#arrowhead-dashed)"/>
         </g>
         <g data-graph-role="automatic-crossover" style="--step:9">
           <path data-graph-role="automatic-crossover-underlay" d="M 821 230 L 821 246 Q 821 254 829 254 L 982 254 Q 990 254 990 262 L 990 330" fill="none" stroke="var(--mask)" stroke-width="5.5" stroke-linecap="round" stroke-linejoin="round" pointer-events="none"/>
@@ -5453,13 +5453,13 @@ OTHER DEALINGS IN THE FONT SOFTWARE.
           <rect x="1147.6" y="180" width="38.8" height="14" rx="3" class="c-mask"/>
           <text x="1167" y="190" class="t-edge-emphasis" font-size="8" text-anchor="middle">relays</text>
         </g>
-        <g data-detail="context" data-edge-from="controller" data-edge-to="weather" data-edge-label="forecast (cached 30 min)" data-edge-key="7" data-edge-id="controller-to-weather">
-          <rect x="647.4" y="252" width="125.19999999999999" height="14" rx="3" class="c-mask"/>
-          <text x="710" y="262" class="t-edge-dashed" font-size="8" text-anchor="middle">forecast (cached 30 min)</text>
+        <g data-detail="context" data-edge-from="controller" data-edge-to="weather" data-edge-label="forecast + model vote (cached 30 min)" data-edge-key="7" data-edge-id="controller-to-weather">
+          <rect x="616.2" y="290" width="187.6" height="14" rx="3" class="c-mask"/>
+          <text x="710" y="300" class="t-edge-dashed" font-size="8" text-anchor="middle">forecast + model vote (cached 30 min)</text>
         </g>
         <g data-detail="context" data-edge-from="controller" data-edge-to="ntfy" data-edge-label="alerts" data-edge-key="8" data-edge-id="controller-to-ntfy">
-          <rect x="762.2" y="273" width="38.8" height="14" rx="3" class="c-mask"/>
-          <text x="781.6" y="283" class="t-edge-dashed" font-size="8" text-anchor="middle">alerts</text>
+          <rect x="809.1" y="260" width="38.8" height="14" rx="3" class="c-mask"/>
+          <text x="828.5" y="270" class="t-edge-dashed" font-size="8" text-anchor="middle">alerts</text>
         </g>
         <g data-detail="context" data-edge-from="controller" data-edge-to="hc" data-edge-label="heartbeat" data-edge-key="9" data-edge-id="controller-to-hc">
           <rect x="878.9" y="234" width="53.199999999999996" height="14" rx="3" class="c-mask"/>
@@ -5692,6 +5692,18 @@ OTHER DEALINGS IN THE FONT SOFTWARE.
           <li>Every open sets the valve&#39;s own countdown a little longer than the run, so the valve closes itself if Cloudflare is lost</li>
           <li>Each phase change reads the valve back, and stops the run if it was changed outside the controller</li>
           <li>Every minute a supervisor closes the valve and ends the run if the valve has been open, or a run has gone on, for more than an hour</li>
+        </ul>
+      </div>
+
+      <div class="card">
+        <div class="card-header">
+          <div class="card-dot violet"></div>
+          <h3>Weather and rain skips</h3>
+        </div>
+        <ul>
+          <li>A scheduled run reads the cached Open-Meteo forecast. Rain, wind, frost or wet soil can skip it or change the number of cycles</li>
+          <li>Current conditions are a vote of seven forecast models, so one model drizzling on a clear day is outvoted</li>
+          <li>A rain skip leaves a note in the Controller. Once the look-ahead has passed, the cron tick checks how much rain fell and waters in daylight if the rain did not come, unless the next run is close</li>
         </ul>
       </div>
 
